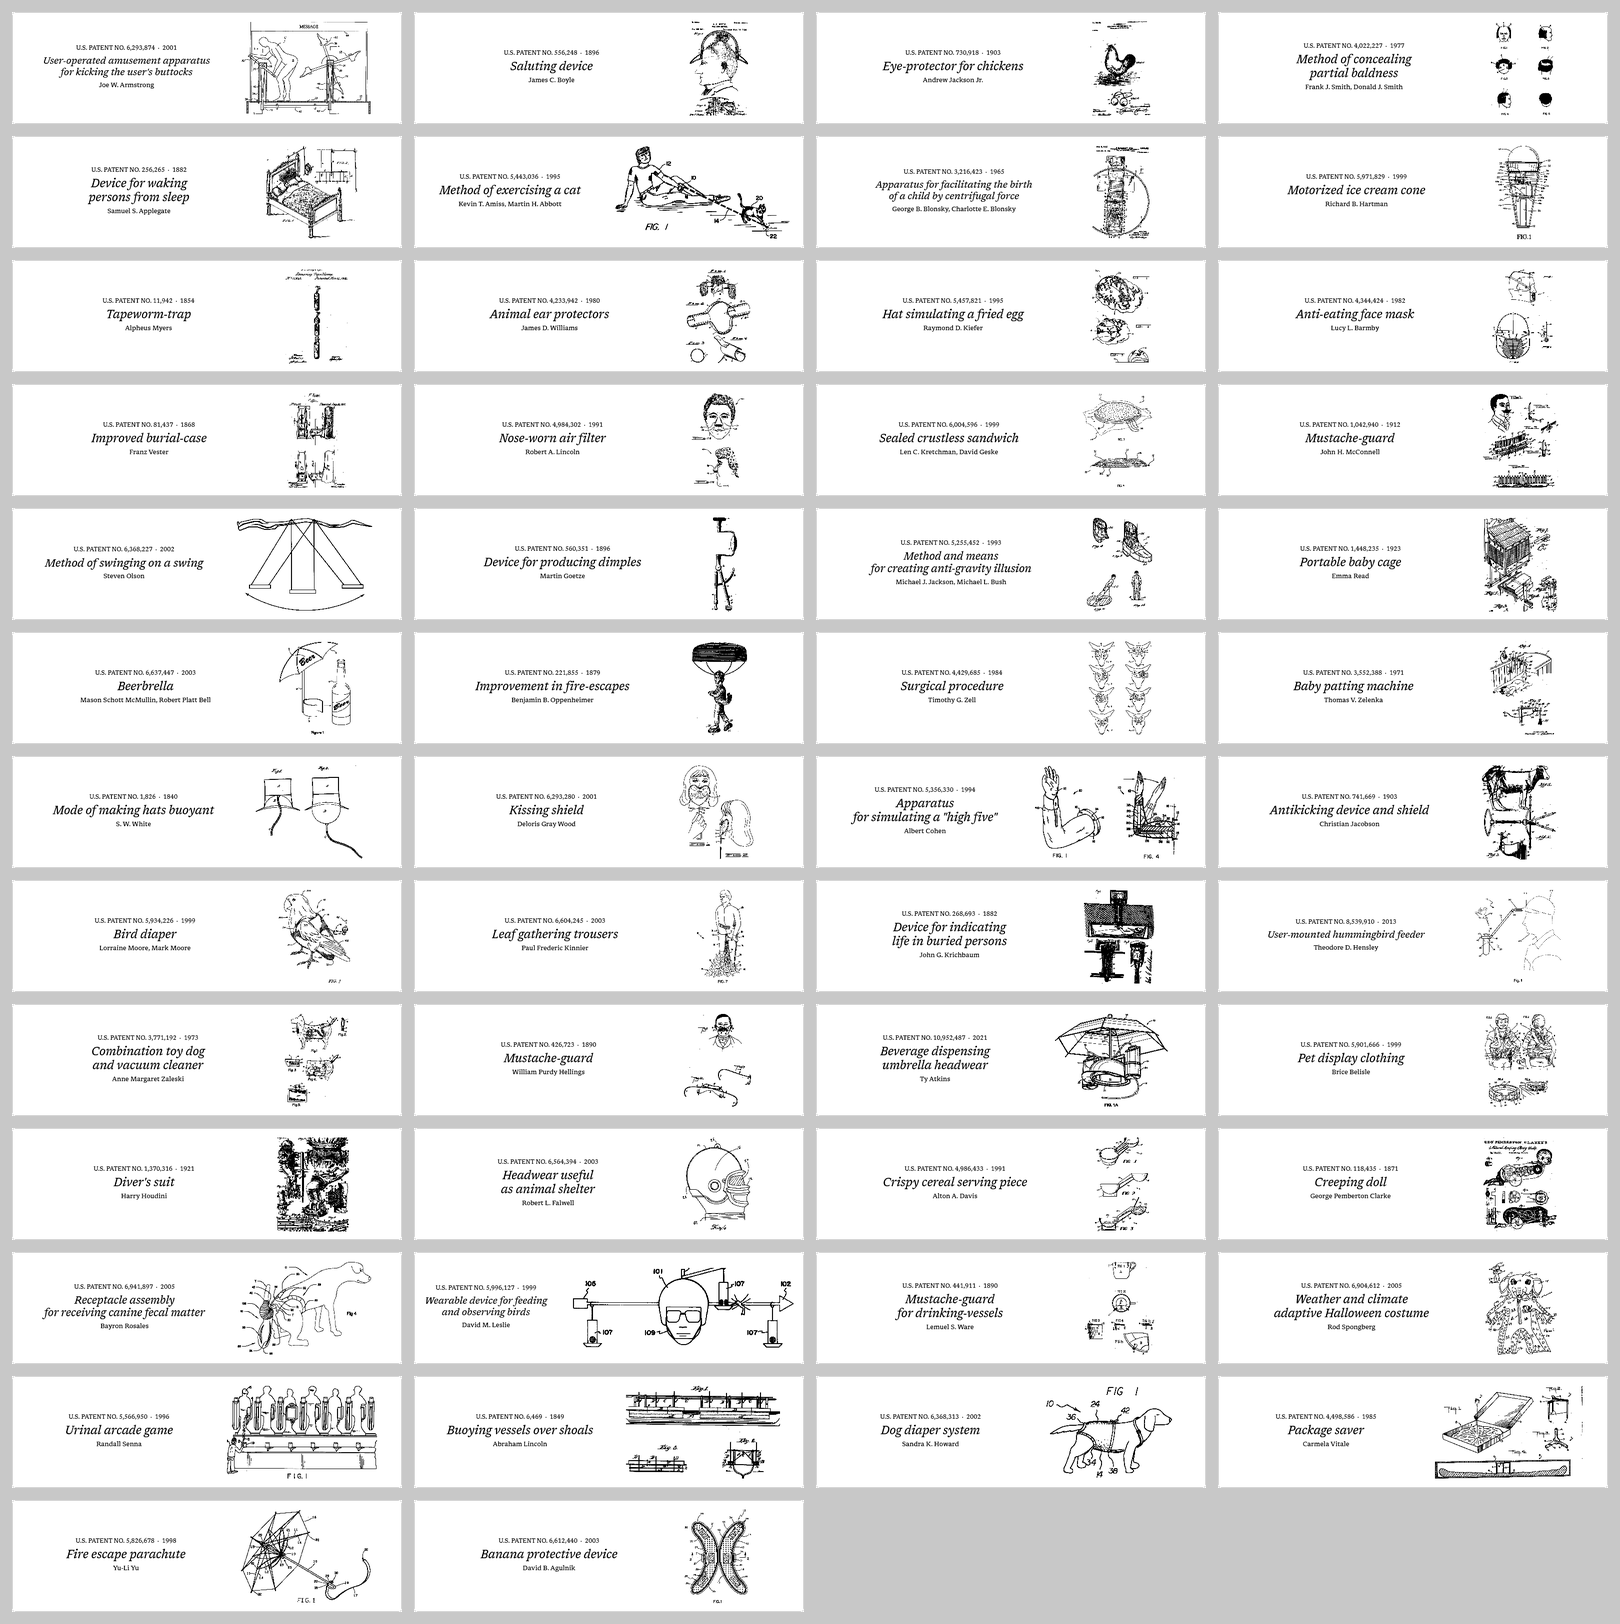
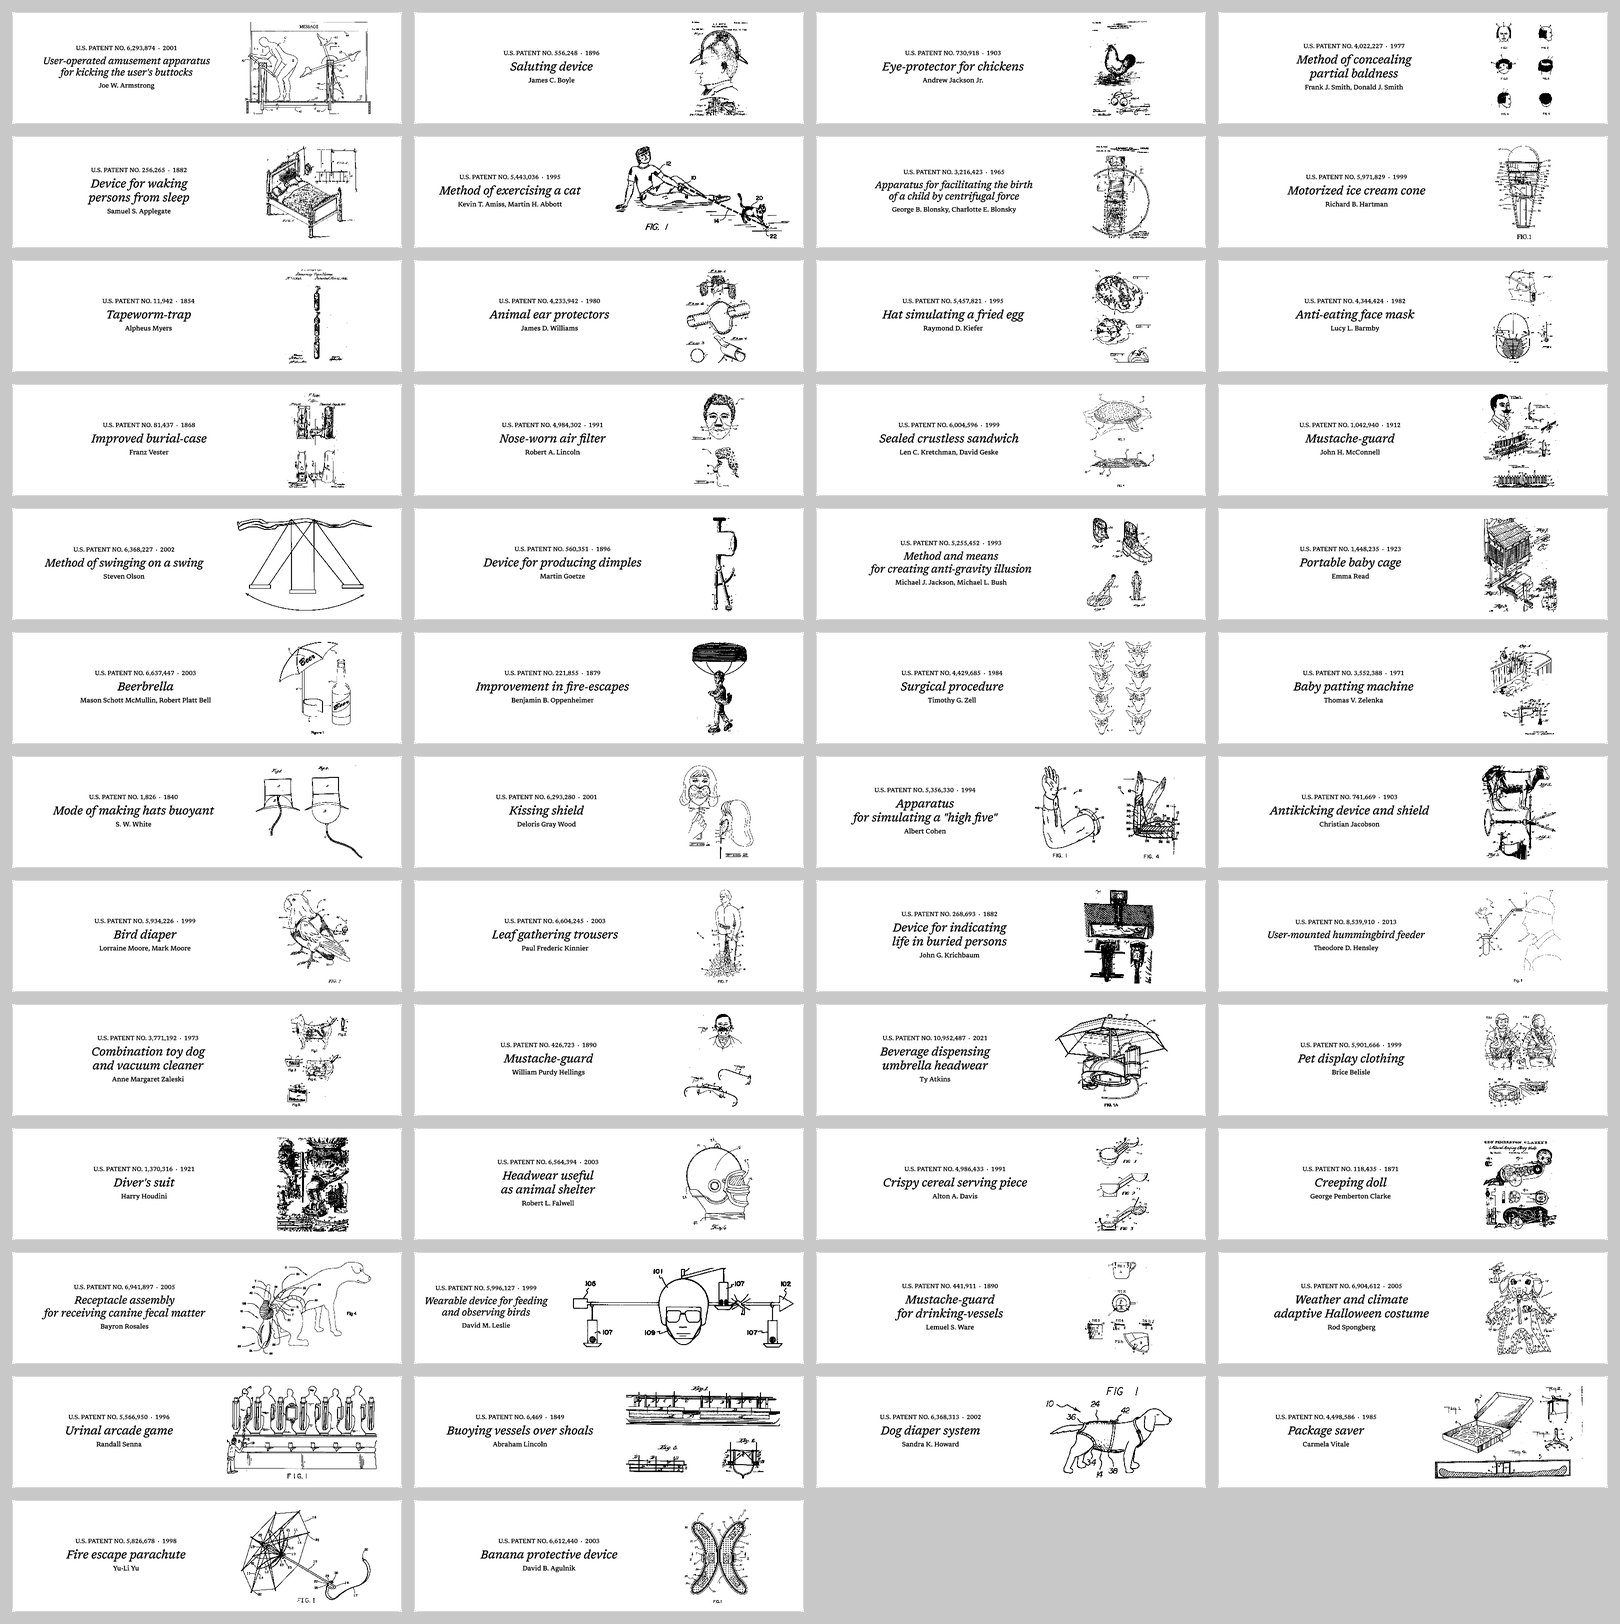
Antialias plugin captions on TRMNL's renderer
TRMNL renders page text without antialiasing, so captions came out with hard
1-bit edges on the 4-gray OG while drawings kept gray edges. shared.liquid now
paints each caption line onto a canvas at 4x, scales it down (gray edges) and
darkens it like the Image Display captions (gamma 1.7); the DOM text stays for
layout and is hidden once painted, so a failed paint falls back to it. Inventor
lines are pre-broken in the manifest (`i`) like titles. The canvas uses the
text's own color (dark mode) and stays inside its slot.

Also records the TRMNL plugin id (551509) in settings.yml, as written back by
trmnlp push.

diff --git a/src/plugin.py b/src/plugin.py
@@ -74,15 +74,15 @@ def layout_style(st: dict) -> dict:
 def plan_layouts(clean, entry: dict, meta: dict, layouts: dict) -> dict:
     """Per-layout plan for the markup, in the layout's own pixels at 1x:
     a = arrangement, d = drawing box [x, y, w, h], c = caption box [x, y, w, h],
-    h = patent-number line(s), t = title lines, ts = title size."""
-    from build import caption_text, font, set_title
+    h = patent-number line(s), t = title lines, ts = title size, i = inventor lines."""
+    from build import caption_text, font, set_title, wrap
     from trmnl import plan
 
     out = {}
     for name, st in layouts.items():
         p = plan(clean, entry, meta, st)
         used = p["style"]
-        header, number, year, title, _ = caption_text(meta, entry, used)
+        header, number, year, title, inventor = caption_text(meta, entry, used)
         # Same choices caption_block makes for the header and title.
         hl = [header]
         if used.get("header_wrap", True) and font("regular", used["header_size"]).getlength(header) > p["cap_w"]:
@@ -91,7 +91,8 @@ def plan_layouts(clean, entry: dict, meta: dict, layouts: dict) -> dict:
                            used.get("max_title_lines", 2))
         (dx, dy), (cx, cy) = p["drawing_xy"], p["caption_xy"]
         out[name] = {"a": p["kind"], "d": [dx, dy, p["drawing"].width, p["drawing"].height],
-                     "c": [cx, cy, p["cap_w"], p["cap_h"]], "h": hl, "t": tl, "ts": ts}
+                     "c": [cx, cy, p["cap_w"], p["cap_h"]], "h": hl, "t": tl, "ts": ts,
+                     "i": wrap(inventor, font("regular", used["inventor_size"]), p["cap_w"]) if inventor else []}
     return out
 
 
